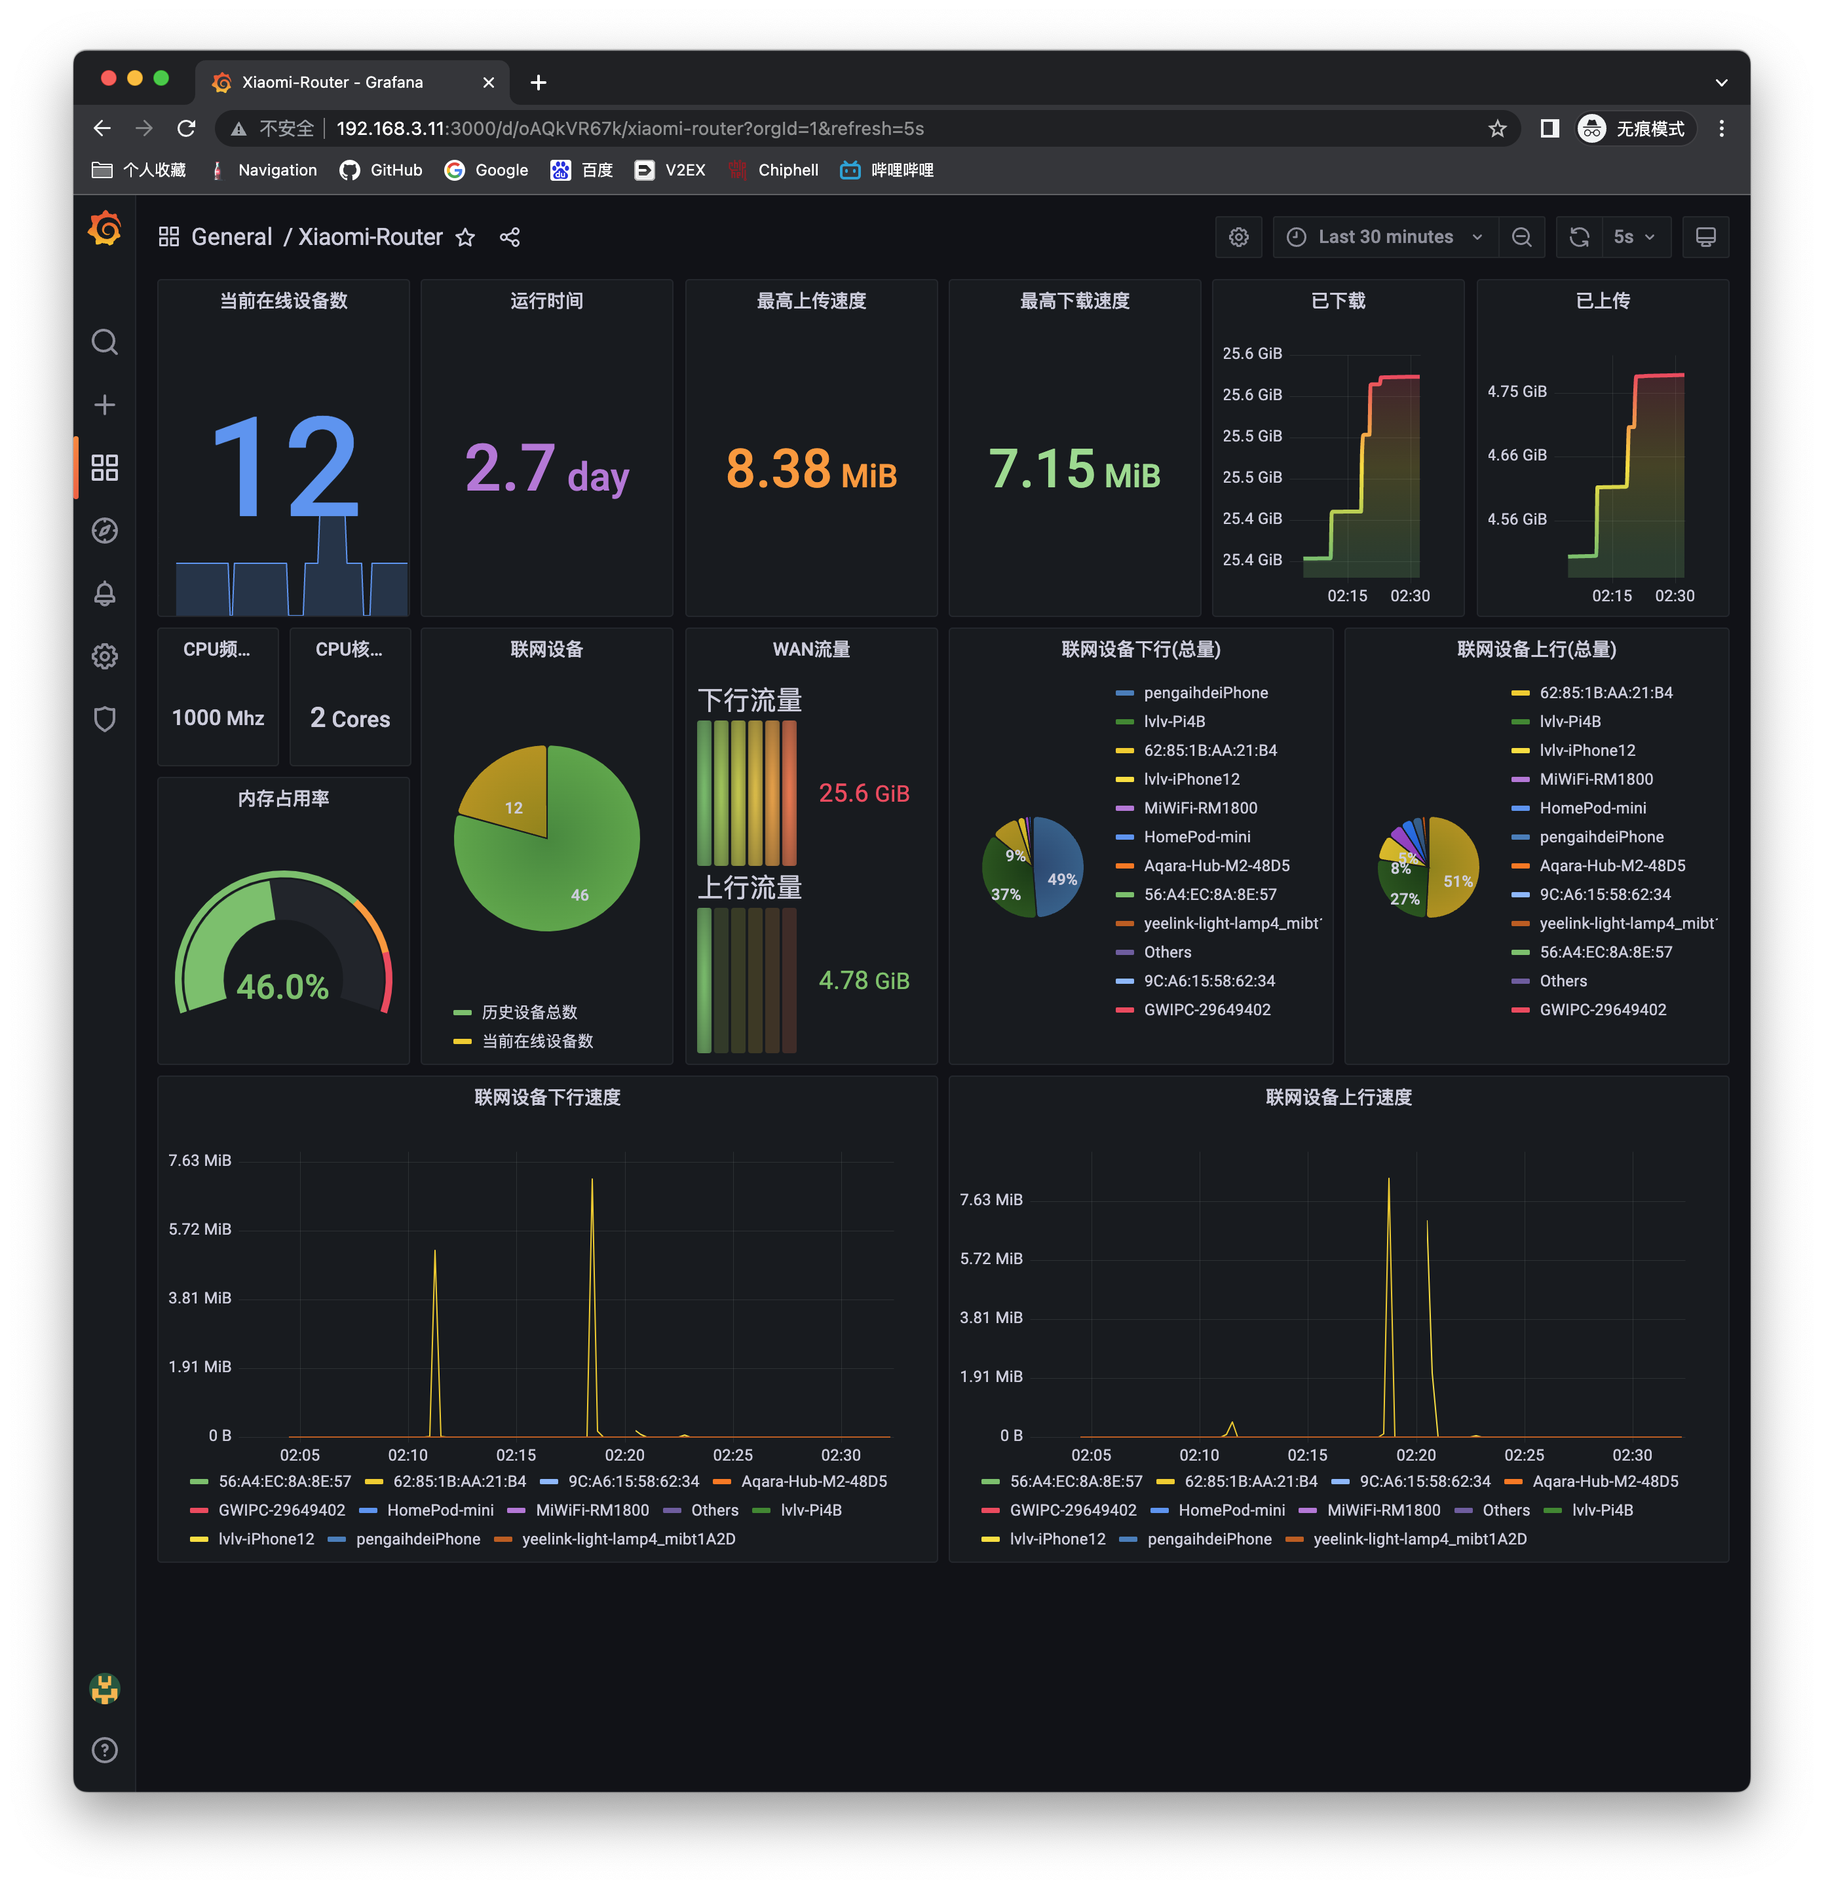
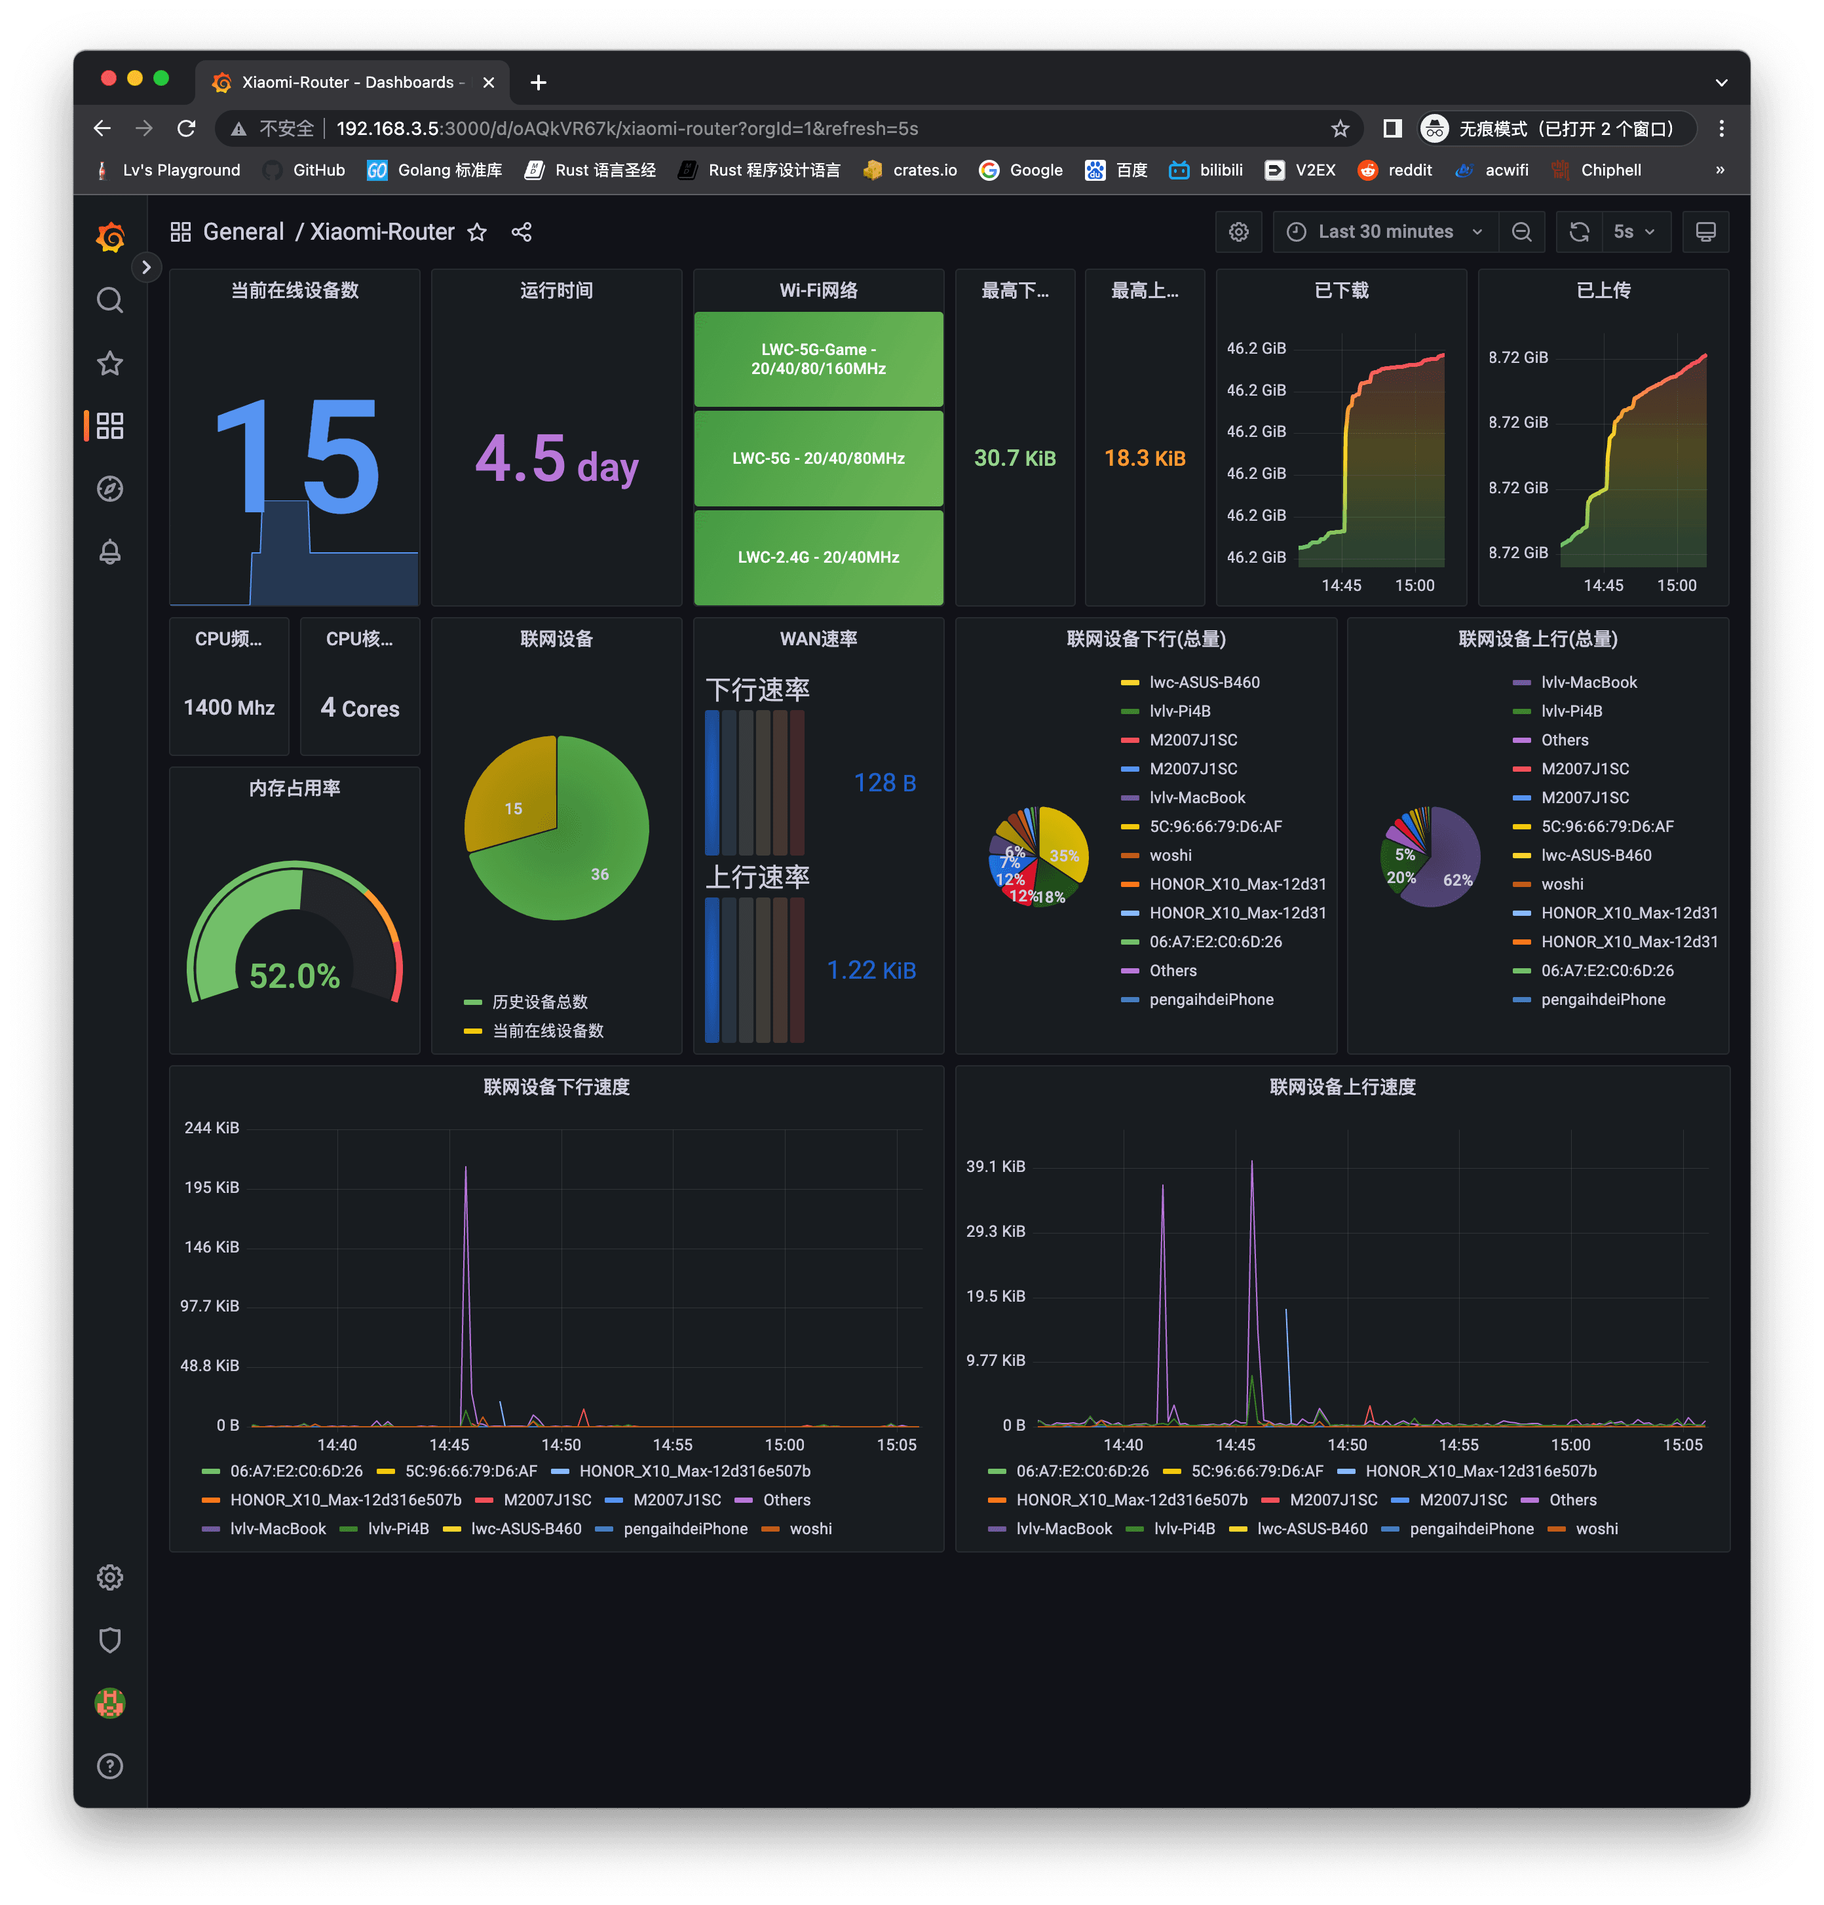
update: readme

diff --git a/README.md b/README.md
@@ -15,36 +15,42 @@ docker compose build
 docker compose up -d
 ```
 
+### Grafana dashboard
+
+See  https://grafana.com/grafana/dashboards/16557-xiaomi-router/
+
+
 ### Collectors
 
-| Name                      | Example                                                                                                                                     |
-|---------------------------|---------------------------------------------------------------------------------------------------------------------------------------------|
-| cpu_cores                 | miwifi_cpu_cores{host="Redmi-AX6S"} 2                                                                                                       |
-| cpu_mhz                   | miwifi_cpu_mhz{host="Redmi-AX6S"} 1000                                                                                                      |
-| cpu_load                  | miwifi_cpu_load{host="Redmi-AX6S"} 0 (This value always 0, 💩Xiaomi)                                                                        |
-| memory_total_mb           | miwifi_memory_total_mb{host="Redmi-AX6S"} 256                                                                                               |
-| memory_usage_mb           | miwifi_memory_usage_mb{host="Redmi-AX6S"} 115.2                                                                                             |
-| memory_usage              | miwifi_memory_usage{host="Redmi-AX6S"} 0.45                                                                                                 |
-| count_all                 | miwifi_count_all{host="Redmi-AX6S"} 46                                                                                                      |
-| count_online              | miwifi_count_online{host="Redmi-AX6S"} 12                                                                                                   |
-| count_all_without_mash    | miwifi_count_all_without_mash{host="Redmi-AX6S"} 45 (I think it should be "mesh")                                                           |
-| count_online_without_mash | miwifi_count_online_without_mash{host="Redmi-AX6S"} 11                                                                                      |
-| uptime                    | miwifi_uptime{host="Redmi-AX6S"} 230035.3                                                                                                   |
-| platform                  | miwifi_platform{platform="RB03"} 1                                                                                                          |
-| version                   | miwifi_version{version="1.0.37"} 1                                                                                                          |
-| sn                        | miwifi_sn{sn="xxx/xxxxx"} 1                                                                                                                 |
-| mac                       | miwifi_mac{mac="5C:12:14:30:C8:C4"} 1                                                                                                       |
-| ipv4                      | miwifi_ipv4{ipv4="192.168.3.101"} 1                                                                                                         |
-| ipv4_mask                 | miwifi_ipv4_mask{ipv4="192.168.3.101"} 24                                                                                                   |
-| ipv6                      | miwifi_ipv6{ipv6="2001:0db8:02de:0000:0000:0000:0000:0e13"} 1                                                                               |
-| wan_upload_speed          | miwifi_wan_upload_speed{host="Redmi-AX6S"} 2003                                                                                             |
-| wan_download_speed        | miwifi_wan_download_speed{host="Redmi-AX6S"} 262                                                                                            |
-| wan_upload_traffic        | miwifi_wan_upload_traffic{host="Redmi-AX6S"} 5.130555322e+09                                                                                |
-| wan_download_traffic      | miwifi_wan_download_traffic{host="Redmi-AX6S"} 2.7483196685e+10                                                                             |
-| device_upload_traffic     | miwifi_device_upload_traffic{device_name="yeelink-light-lamp4_mibt1A2D",ip="192.168.31.154",is_ap="0",mac="54:48:E6:B9:1A:2D"} 1.519688e+06 |
-| device_upload_speed       | miwifi_device_upload_speed{device_name="yeelink-light-lamp4_mibt1A2D",ip="192.168.31.154",is_ap="0",mac="54:48:E6:B9:1A:2D"} 0              |
-| device_download_traffic   | miwifi_device_download_traffic{device_name="yeelink-light-lamp4_mibt1A2D",ip="192.168.31.154",is_ap="0",mac="54:48:E6:B9:1A:2D"} 400261     |
-| device_download_speed     | miwifi_device_download_speed{device_name="yeelink-light-lamp4_mibt1A2D",ip="192.168.31.154",is_ap="0",mac="54:48:E6:B9:1A:2D"} 0            |
+| Name                      | Example                                                                                                                                                                                                                                                                       |
+|---------------------------|-------------------------------------------------------------------------------------------------------------------------------------------------------------------------------------------------------------------------------------------------------------------------------|
+| cpu_cores                 | miwifi_cpu_cores{host="Redmi-AX6S"} 2                                                                                                                                                                                                                                         |
+| cpu_mhz                   | miwifi_cpu_mhz{host="Redmi-AX6S"} 1000                                                                                                                                                                                                                                        |
+| cpu_load                  | miwifi_cpu_load{host="Redmi-AX6S"} 0 (This value always 0, 💩Xiaomi)                                                                                                                                                                                                          |
+| memory_total_mb           | miwifi_memory_total_mb{host="Redmi-AX6S"} 256                                                                                                                                                                                                                                 |
+| memory_usage_mb           | miwifi_memory_usage_mb{host="Redmi-AX6S"} 115.2                                                                                                                                                                                                                               |
+| memory_usage              | miwifi_memory_usage{host="Redmi-AX6S"} 0.45                                                                                                                                                                                                                                   |
+| count_all                 | miwifi_count_all{host="Redmi-AX6S"} 46                                                                                                                                                                                                                                        |
+| count_online              | miwifi_count_online{host="Redmi-AX6S"} 12                                                                                                                                                                                                                                     |
+| count_all_without_mash    | miwifi_count_all_without_mash{host="Redmi-AX6S"} 45 (I think it should be "mesh")                                                                                                                                                                                             |
+| count_online_without_mash | miwifi_count_online_without_mash{host="Redmi-AX6S"} 11                                                                                                                                                                                                                        |
+| uptime                    | miwifi_uptime{host="Redmi-AX6S"} 230035.3                                                                                                                                                                                                                                     |
+| platform                  | miwifi_platform{platform="RB03"} 1                                                                                                                                                                                                                                            |
+| version                   | miwifi_version{version="1.0.37"} 1                                                                                                                                                                                                                                            |
+| sn                        | miwifi_sn{sn="xxx/xxxxx"} 1                                                                                                                                                                                                                                                   |
+| mac                       | miwifi_mac{mac="5C:12:14:30:C8:C4"} 1                                                                                                                                                                                                                                         |
+| ipv4                      | miwifi_ipv4{ipv4="192.168.3.101"} 1                                                                                                                                                                                                                                           |
+| ipv4_mask                 | miwifi_ipv4_mask{ipv4="192.168.3.101"} 24                                                                                                                                                                                                                                     |
+| ipv6                      | miwifi_ipv6{ipv6="2001:0db8:02de:0000:0000:0000:0000:0e13"} 1                                                                                                                                                                                                                 |
+| wan_upload_speed          | miwifi_wan_upload_speed{host="Redmi-AX6S"} 2003                                                                                                                                                                                                                               |
+| wan_download_speed        | miwifi_wan_download_speed{host="Redmi-AX6S"} 262                                                                                                                                                                                                                              |
+| wan_upload_traffic        | miwifi_wan_upload_traffic{host="Redmi-AX6S"} 5.130555322e+09                                                                                                                                                                                                                  |
+| wan_download_traffic      | miwifi_wan_download_traffic{host="Redmi-AX6S"} 2.7483196685e+10                                                                                                                                                                                                               |
+| device_upload_traffic     | miwifi_device_upload_traffic{device_name="yeelink-light-lamp4_mibt1A2D",ip="192.168.31.154",is_ap="0",mac="54:48:E6:B9:1A:2D"} 1.519688e+06                                                                                                                                   |
+| device_upload_speed       | miwifi_device_upload_speed{device_name="yeelink-light-lamp4_mibt1A2D",ip="192.168.31.154",is_ap="0",mac="54:48:E6:B9:1A:2D"} 0                                                                                                                                                |
+| device_download_traffic   | miwifi_device_download_traffic{device_name="yeelink-light-lamp4_mibt1A2D",ip="192.168.31.154",is_ap="0",mac="54:48:E6:B9:1A:2D"} 400261                                                                                                                                       |
+| device_download_speed     | miwifi_device_download_speed{device_name="yeelink-light-lamp4_mibt1A2D",ip="192.168.31.154",is_ap="0",mac="54:48:E6:B9:1A:2D"} 0                                                                                                                                              |
+| wifi_detail               | miwifi_wifi_detail{band_list="20/40/80/160MHz",channel="48",ssid="XXX-5G-Game",status="1"} 1<br/> miwifi_wifi_detail{band_list="20/40/80MHz",channel="149",ssid="XXX-5G",status="1"} 1<br/>miwifi_wifi_detail{band_list="20/40MHz",channel="10",ssid="XXX-2.4G",status="1"} 1 |
 
 ### Source Repo
 
